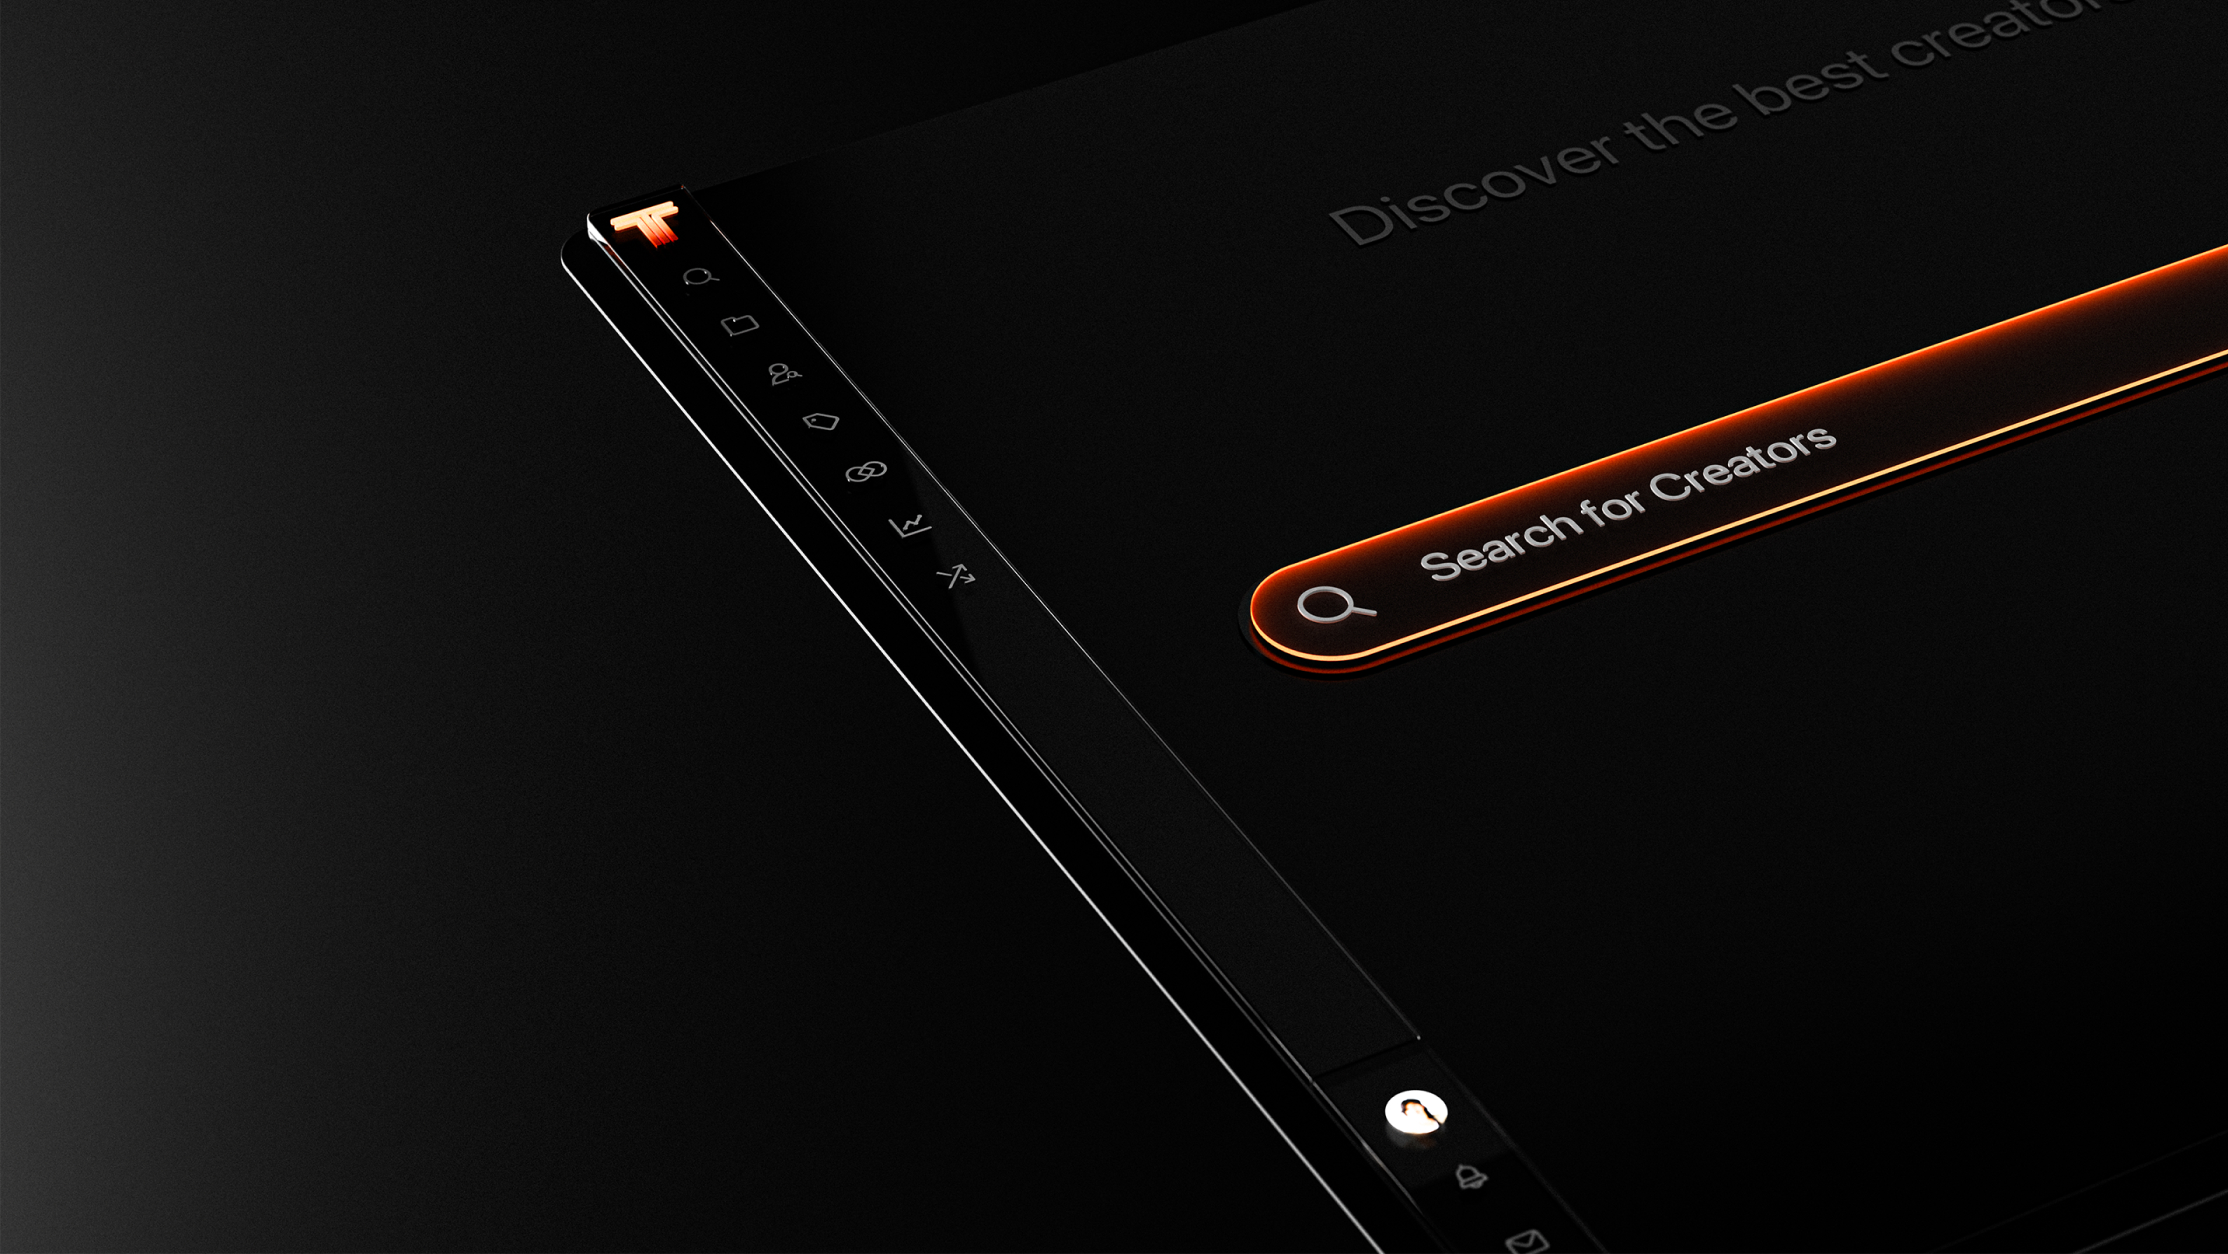
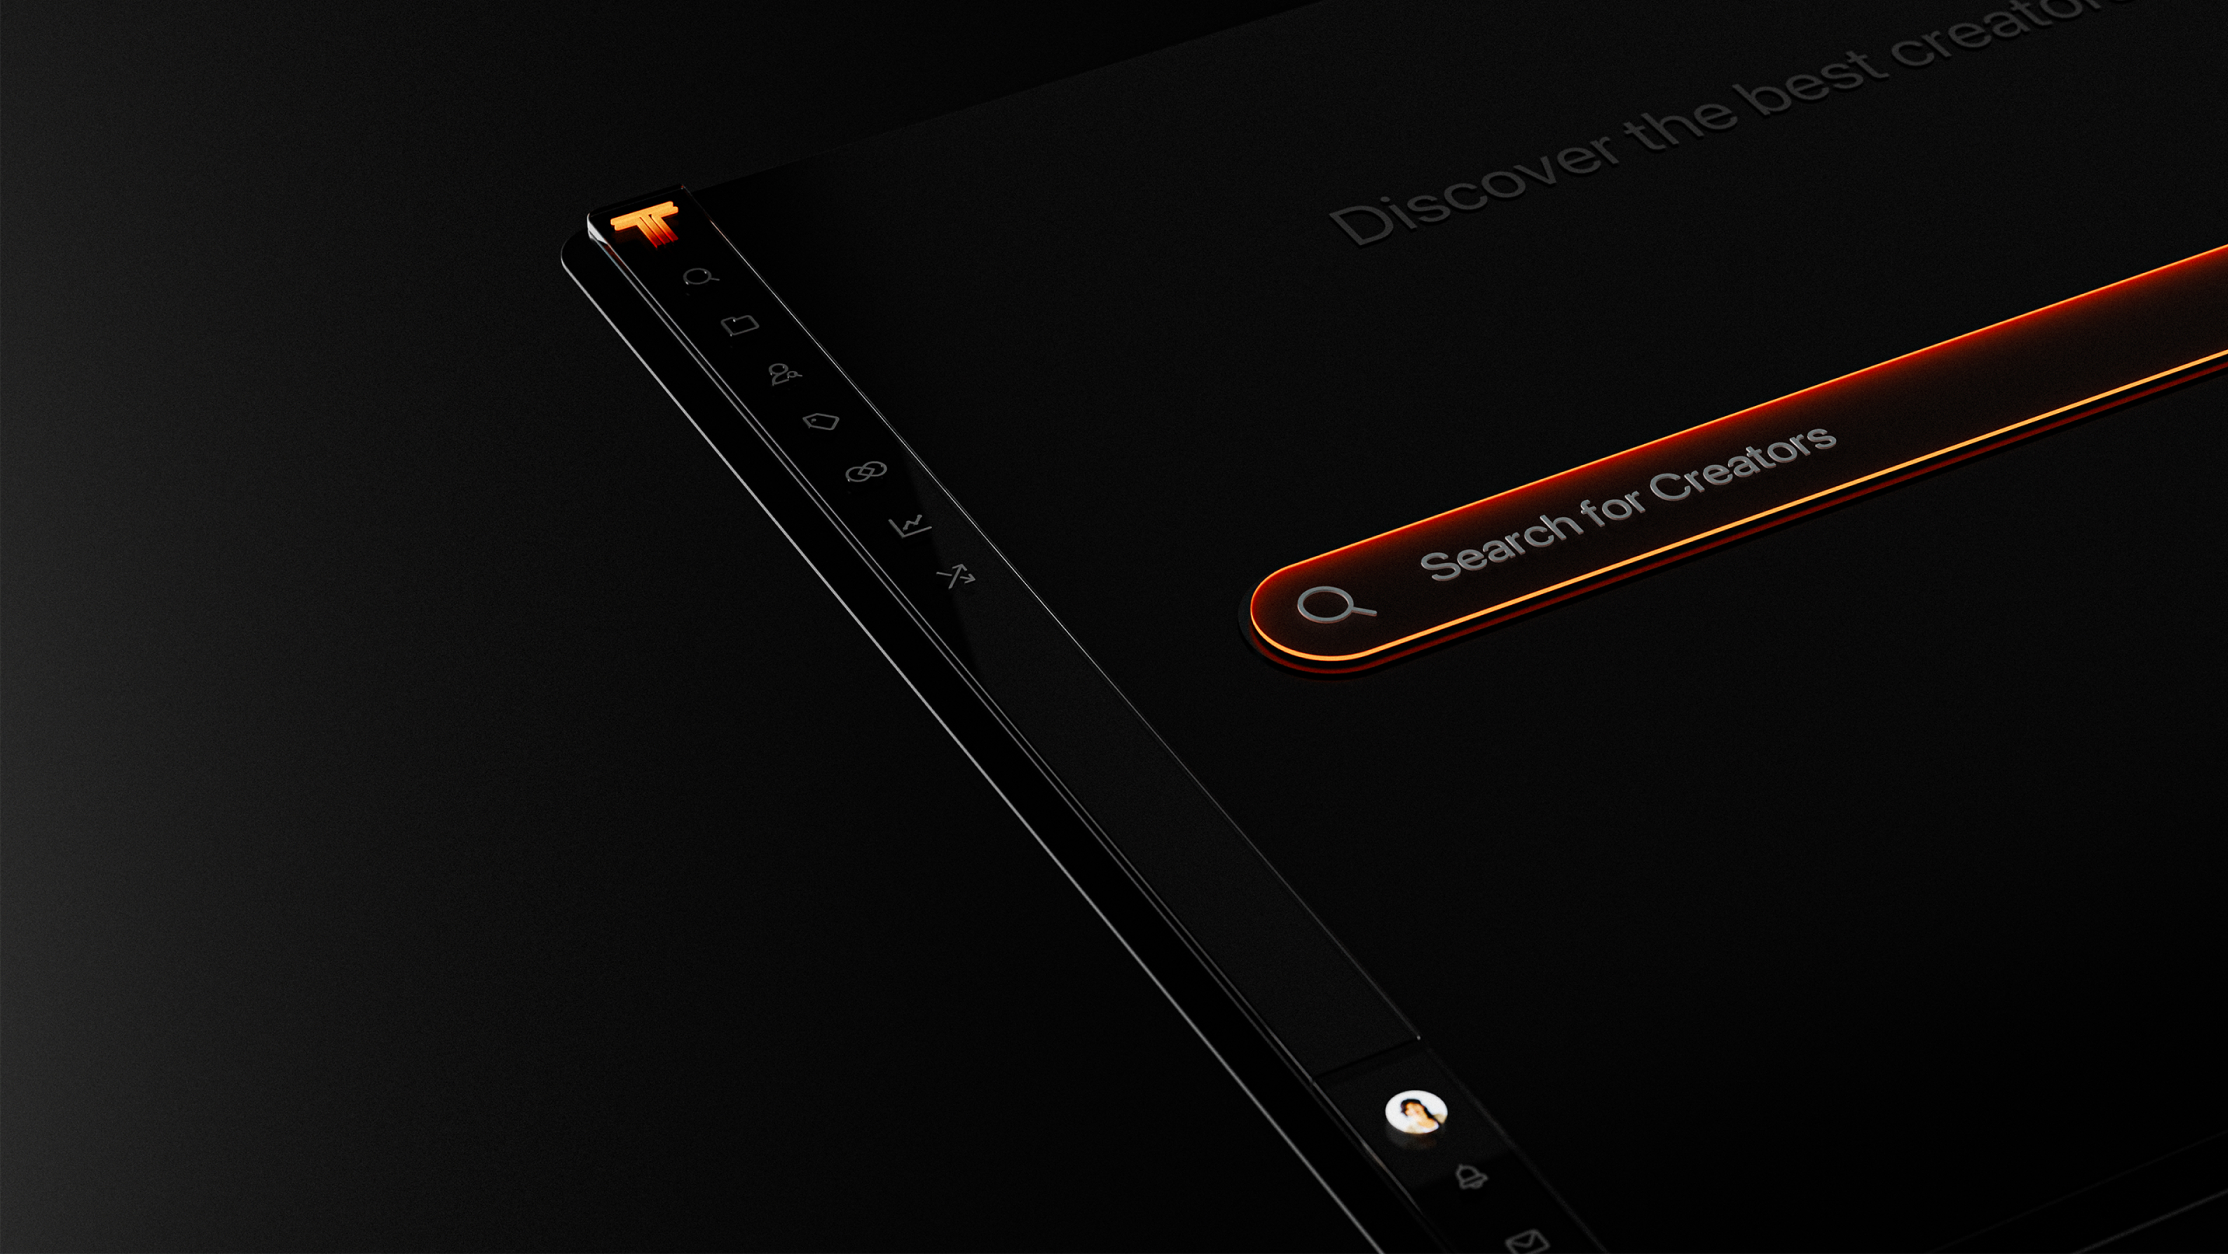
Hero scene tweaks

diff --git a/components/home/Hero.tsx b/components/home/Hero.tsx
@@ -53,9 +53,9 @@ function HeroScene({ el }) {
     useFrame((state) => {
 
         v.copy({ x: state.pointer.x, y: state.pointer.y, z: 0 })
-        cameraRef.current.position.lerp({ x: 0, y: Math.max(20, -state.pointer.x * 5), z: 0.1 }, 0.02)
-        cameraRef.current.lookAt(0, 0, 0)
-        cameraRef.current.up.set(0, 1, 0);
+        cameraRef.current.position.lerp({ x: 0, y: Math.max(50, -state.pointer.x * 5), z: 0.1 }, 0.02)
+
+
     })
     return <ViewportScrollScene track={el} hideOffscreen={false}>
         {(props) => (
@@ -63,11 +63,20 @@ function HeroScene({ el }) {
 
                 <StageComponent {...props} />
                 <fog attach="fog" color="#000000" near={1} far={80} />
-                <PerspectiveCamera fov={80} ref={cameraRef} makeDefault={true} position={[0, 0, 18]} />
+
+                <PerspectiveCamera fov={20} ref={cameraRef} makeDefault={true} position={[0, -20, 0]} lookAt={[0, 0, 0]} />
 
 
 
                 <Environment blur={2}>
+                    <Lightformer
+                        position={[0, 30, 2]}
+                        form="rect" // circle | ring | rect (optional, default = rect)
+                        intensity={20} // power level (optional = 1)
+                        color="white" // (optional = white)
+                        scale={[50, 50]} // Scale it any way you prefer (optional = [1, 1])
+                        target={[0, 10, 0]} // Target position (optional = undefined)
+                    />
                     <Lightformer
                         position={[0, 15, 2]}
                         form="rect" // circle | ring | rect (optional, default = rect)

diff --git a/styles/components/_hero-scroll-scene.css b/styles/components/_hero-scroll-scene.css
@@ -2,13 +2,14 @@
   display: flex;
   aspect-ratio: 16/10;
   width: calc(100% - 2em);
-  height: calc(100vh - 2em);
-  height: calc(100svh - 2em);
+  height: calc(200vh);
+  height: calc(200svh);
   text-align: center;
   border-radius: 1em;
   overflow: hidden;
   background: hsl(0, 0%, 0%);
   margin: 1em auto;
+  position: relative;
 }
 
 .hero-scroll-scene .logo {
@@ -16,6 +17,7 @@
   width: 200px;
   height: 200px;
   position: absolute;
+  z-index: 2;
 }
 
 .hero-scroll-scene .hero_content {
@@ -24,20 +26,27 @@
   height: 100%;
   color: #ffffff;
   font-weight: 700;
-  padding: 10em 2em;
+  padding: 20rem 2em;
 }
 
 .hero-scroll-scene .hero_content h1 {
   line-height: 120%;
+  position:relative;
+  font-size: var(--step-8);
+  z-index: 4;
 }
 
 .hero-scroll-scene .hero_content h2 {
   max-width: 40rem;
+  position:relative;
+  z-index: 4;
 }
 
 .hero-scroll-scene .hero_content p {
   font-size: var(--step--1);
-  color: var(--orange-500);
+  color: #FB8E23;
   font-weight: 500;
   margin: 0 auto;
+  position:relative;
+  z-index: 4;
 }

diff --git a/styles/layout/_navbar.css b/styles/layout/_navbar.css
@@ -4,6 +4,7 @@ nav {
   display: flex;
   align-items: center;
   justify-content: space-between;
+  z-index: 5;
 }
 
 .nav_links_wrapper {

diff --git a/styles/pages/_home.css b/styles/pages/_home.css
@@ -533,6 +533,7 @@ section {
 
 .tagger-labs_wrapper .smart-discovery img {
   width: 100%;
+  border-radius: 0.25rem;
 }
 
 
